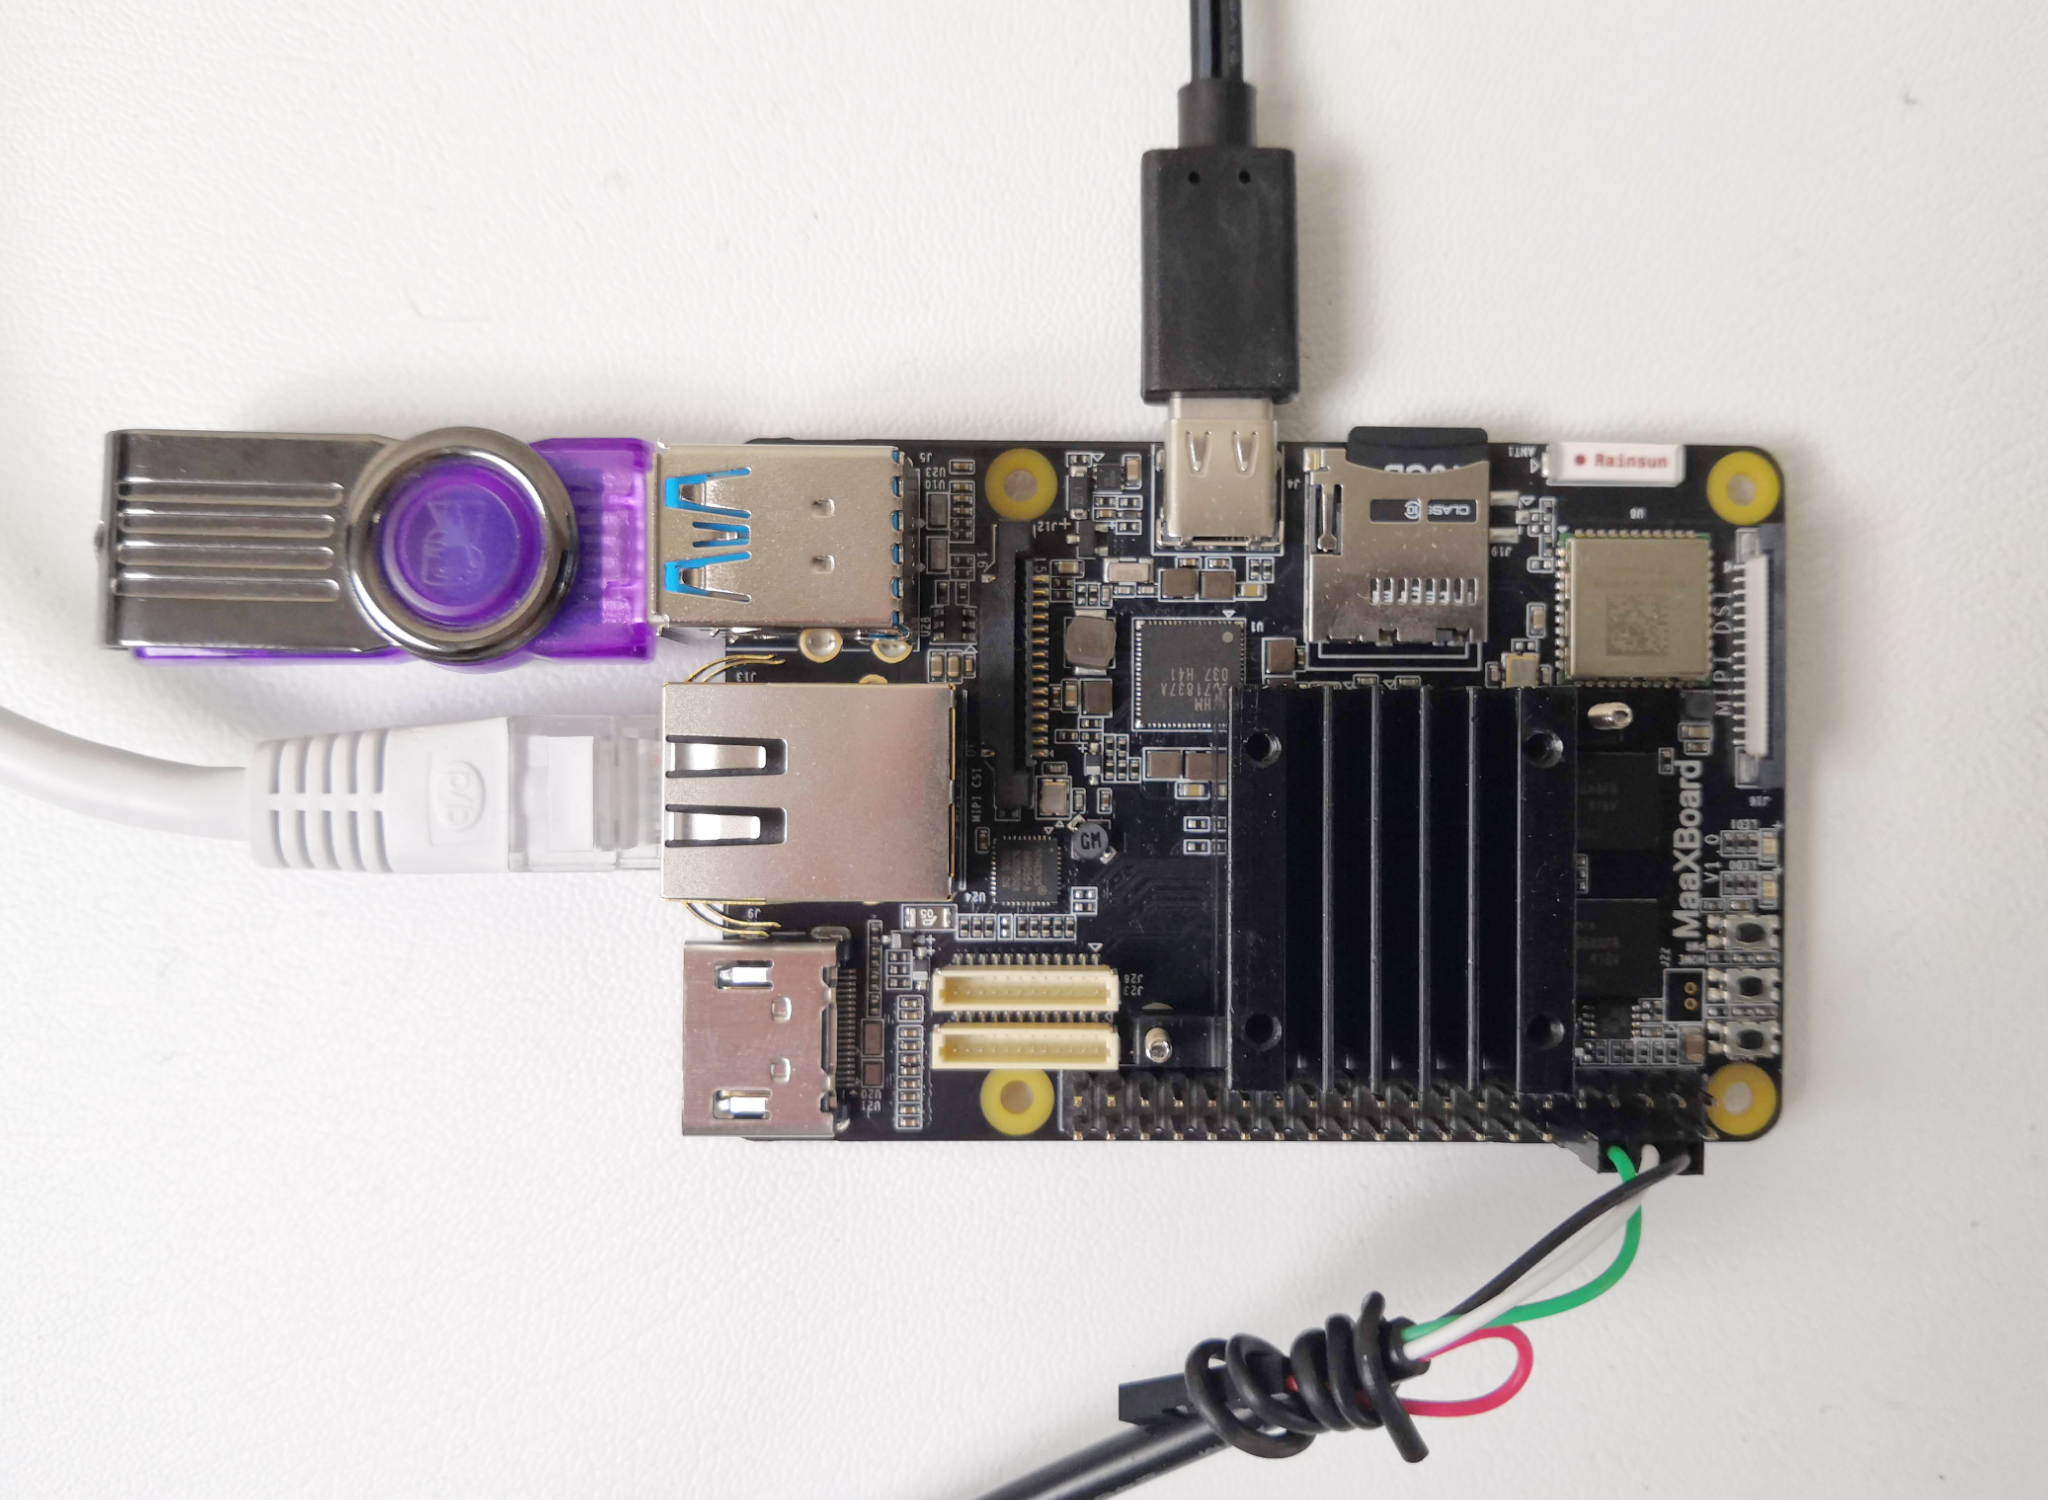
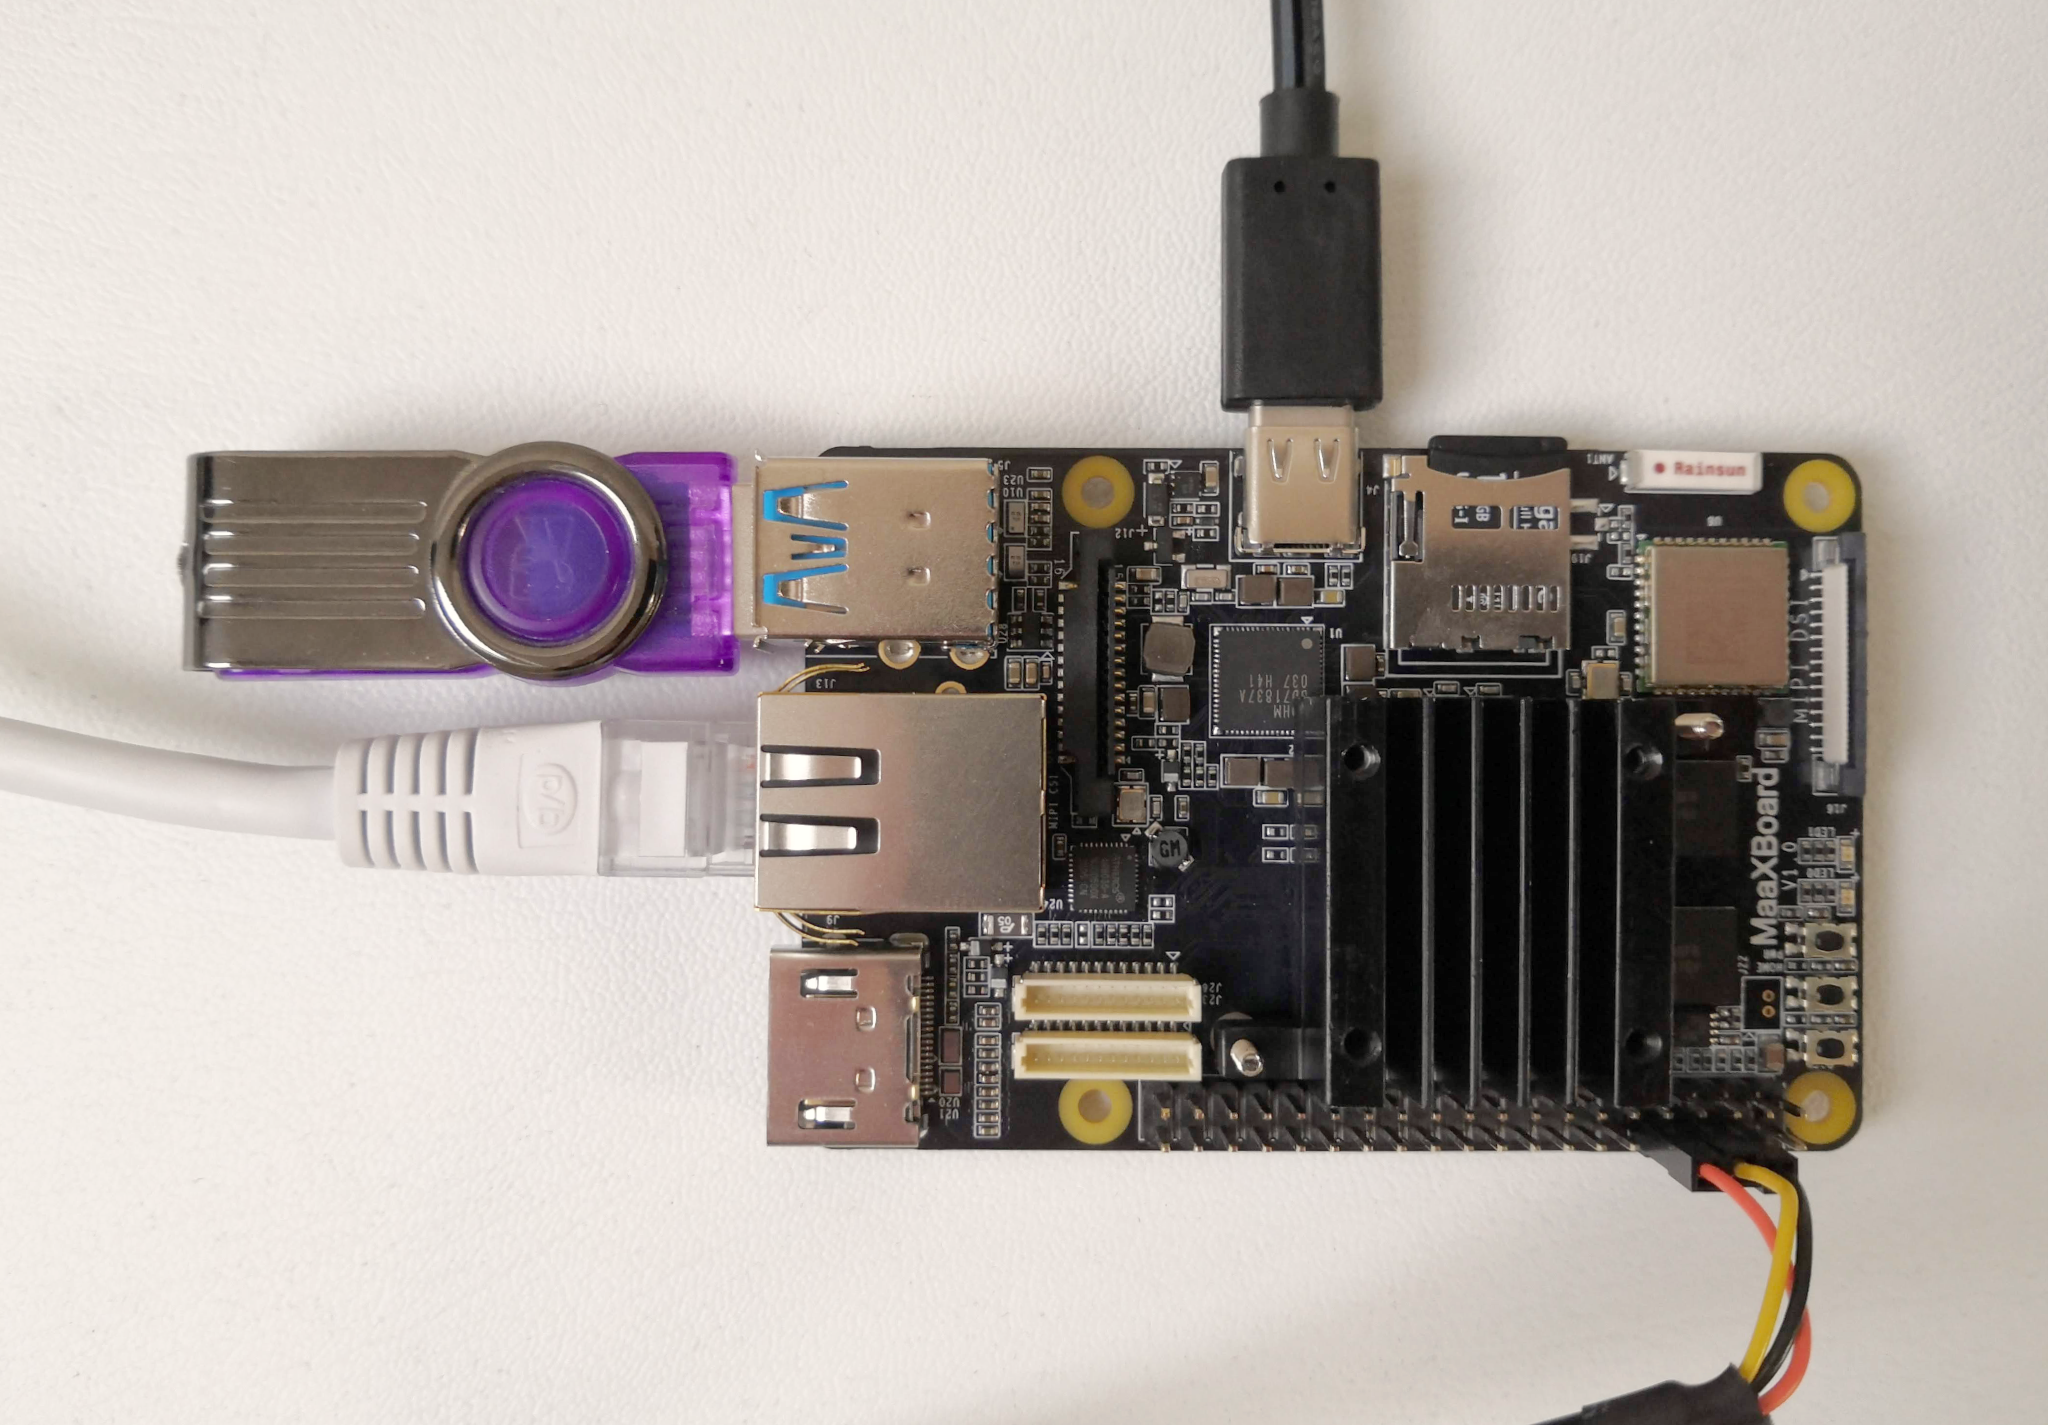
Update text and photos for new USB-TTL cable
Including Farnell order code.

diff --git a/seL4-doc/src/hardware_requirements.md b/seL4-doc/src/hardware_requirements.md
@@ -9,7 +9,7 @@ The following table includes order codes and hyperlinks for the [Farnell UK stor
 | Item                                 | Notes                         | Order Code                                                                                                          |
 | ------------------------------------ | ----------------------------- | ------------------------------------------------------------------------------------------------------------------- |
 | Avnet MaaXBoard (AES-MC-SBC-IMX8M-G) | Mandatory                     | [3436577](https://uk.farnell.com/avnet/aes-mc-sbc-imx8m-g/sbc-quad-arm-cortex-a53-cortex/dp/3436577?ost=3436577)    |
-| USB to TTL Serial Cable              | Mandatory                     | [3404320](https://uk.farnell.com/pro-signal/usb-ttl-a/usb-to-ttl-serial-cable/dp/3404320?ost=3404320)               |
+| USB to TTL Serial Cable              | Mandatory                     | [2147356](https://uk.farnell.com/ftdi/ttl-232r-rpi/cable-debug-ttl-232-usb-rpi/dp/2147356)               |
 | 16GB Micro SD Card                   | Mandatory                     | [3498607](https://uk.farnell.com/integral/inmsdh16g10-90u1/16gb-ultimapro-microsd-c10-90/dp/3498607?ost=3498607)    |
 | USB Micro SD Card Reader / Writer    | Mandatory                     | [3493850](https://uk.farnell.com/tripp-lite/u452-000-sd-a/usb-c-memory-card-reader-sd-micro/dp/3493850?ost=3493850) |
 | 15W USB-C Power Adapter              | Mandatory                     | [3106255](https://uk.farnell.com/stontronics/t7725dv/adapter-ac-dc-1-o-p-5-1v-3a/dp/3106255?ost=3106255)            |

diff --git a/seL4-doc/src/target_platform_setup.md b/seL4-doc/src/target_platform_setup.md
@@ -19,13 +19,11 @@ For clarity, not all of the components have been labelled, only those to which w
 
 Communications with the MaaXBoard from the host machine are via the USB-to-TTL serial cable. This converts between the board's 0V and 3.3V logic levels and the 0V and 5V TTL signal levels expected by USB. The USB end plugs into the host machine, and the flying leads are connected to the GPIO pins on the MaaXBoard.
 
-The USB-to-TTL serial cable that we used has 4 flying lead connectors (only 3 of which we use), but some cables have more connectors. The leads shown below in our photographs adhere to a common colour convention, but this should not necessarily be assumed for your cable and should be confirmed before connecting:
+The USB-to-TTL serial cable that we used has 3 flying lead connectors, but some cables have more connectors. The leads shown below in our photographs adhere to the following colour convention, but this should not necessarily be assumed for your cable and should be confirmed before connecting:
 
 - Black = Ground;
-- White = Transmit;
-- Green = Receive.
-
-The red lead is wired to the USB connector's Vcc 5V power; however, this is not used in our application (the MaaXBoard has its own power supply via the board's USB-C connector) and it has been tied out of the way for convenience in the photographs below.
+- Yellow = Transmit;
+- Orange = Receive.
 
 ![UART connector side 1](figures/uart-connector-side1.png)
 
